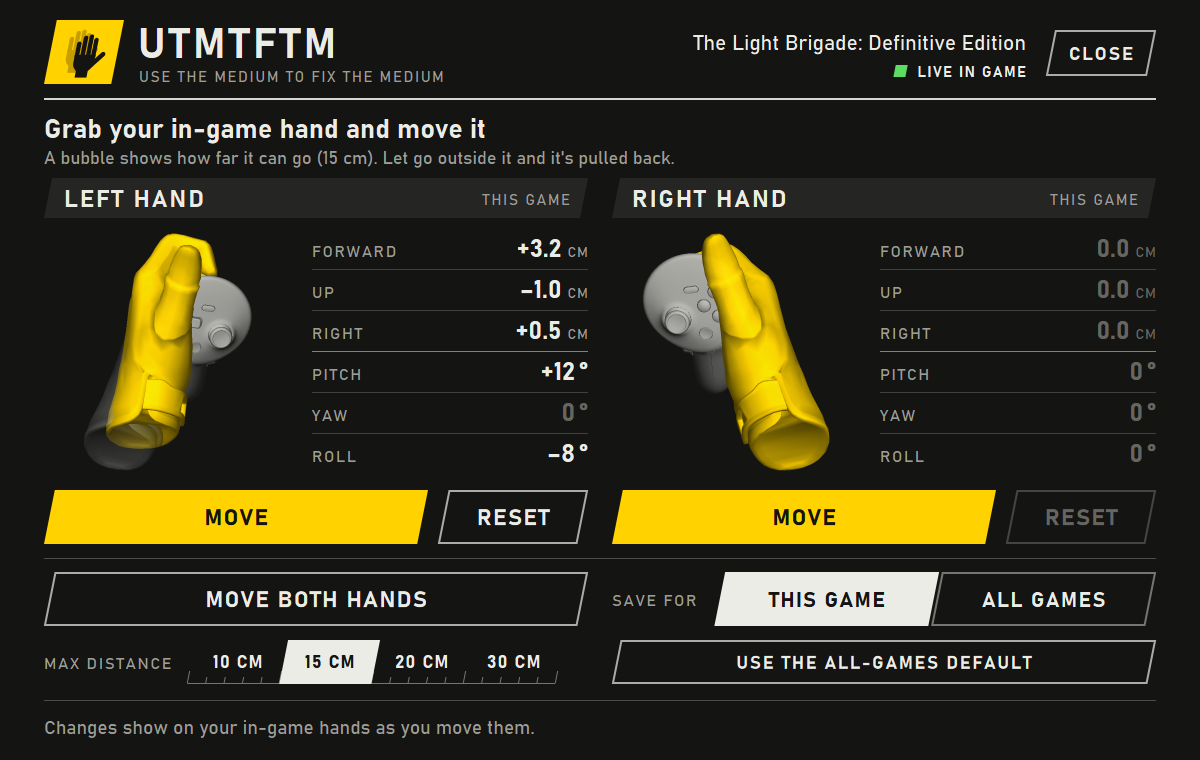
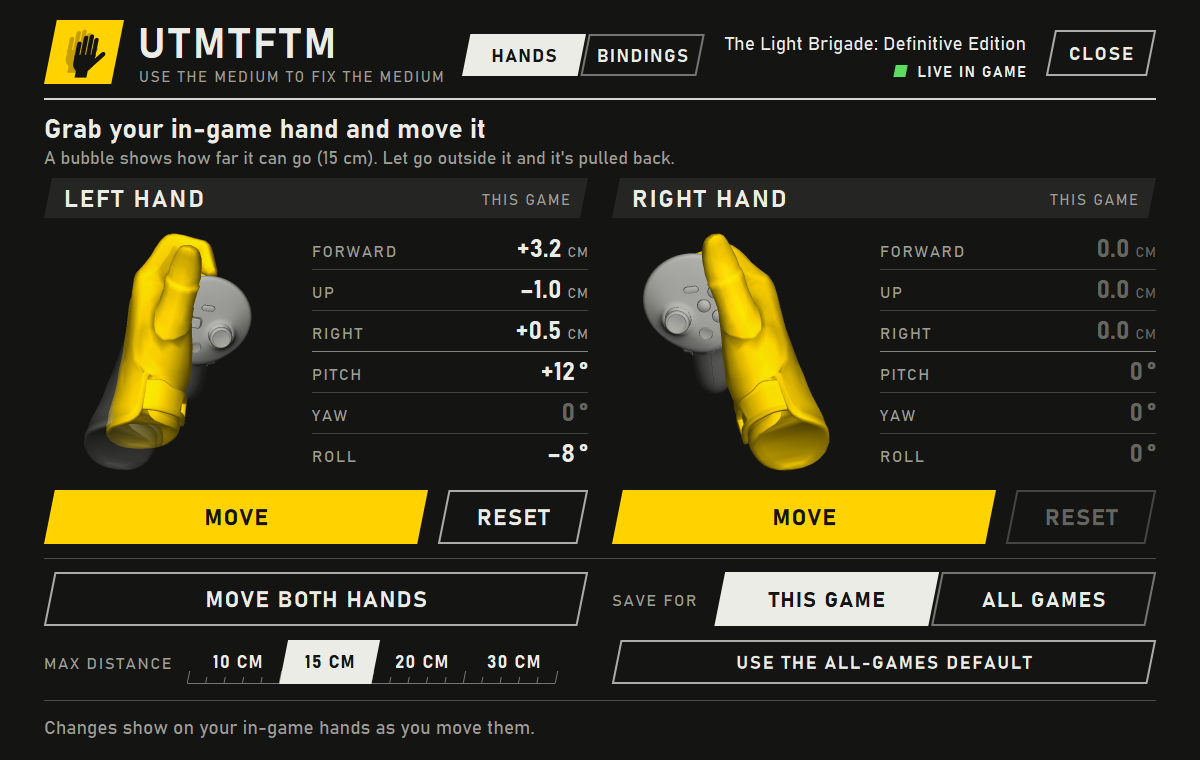
Version 0.3.0: the Bindings tab and the Frame's hand
Docs and pictures for the Bindings tab, the changelog and release notes, and how-it-works now covers the hand skin. Also takes the hand-skin branch back out of the build triggers.

Changed region(s): [[0.37, 0.0303, 0.8633, 0.1211]]

diff --git a/docs/how-it-works.md b/docs/how-it-works.md
@@ -52,7 +52,7 @@ The Frame runs SteamVR natively on ARM64 Linux, from `/opt/steamvr`, so this is 
 - The text is Barlow, which ships with the program, because Linux has no Bahnschrift and a headset's fonts aren't something to count on.
 - It uses the OpenVR loader SteamVR keeps at `/opt/steamvr/bin/linuxarm64`. The prebuilt ARM64 one in Valve's SDK looks for its settings in `/data/work`, an Android path, so it can't find SteamVR on a Frame.
 - cairo, FreeType and Vulkan come from SteamOS, and everything else is built into the program. It only needs glibc 2.34, so it isn't tied to one SteamOS version.
-- The Frame's SteamVR has the hand's skeleton and animations but no glove model, and that model isn't ours to ship, so the page draws a plain hand of its own.
+- The Frame's SteamVR has the hand's skeleton and animations but no glove model, and that model isn't ours to ship. So `src/handskin.h` wraps a smooth skin around SteamVR's bones, and the hand on the page ends up with the same shape as on Windows.
 - It's also listed in the dashboard's **+** menu, which shows whatever is in `~/.local/share/applications`. If it's already running, that just opens its page.
 
 ARM also doesn't keep memory writes in order the way x86 does. The offsets in the shared file are guarded by a sequence number, and without an extra fence a reader on another core could take a half-written offset for a finished one. x86 hides that mistake, so it never showed up on Windows. `test_driver` writes and reads flat out on separate threads, and that test runs on ARM64 as well.
@@ -68,9 +68,11 @@ It's all read from files SteamVR already keeps, and most of the work is in `src/
 - A game's bindings come from wherever SteamVR got them, in this order: the binding it's set to use for that game, what an OpenXR game asked for last time it ran (`config/openxr/<app>_<controller>_<n>_binding.json`, rewritten at each launch), bindings SteamVR ships for that game, and the game's own action file, which Steam lists in `steamapps.vrmanifest`.
 - A game's names for its actions are in its action file. OpenXR games have no such file on disk, and Unity's and Unreal's plugins name their actions after the input anyway, like `oculustouch_right_a_click`, so all the page can say is that the button's in use.
 
-The translation starts from SteamVR's own, `*_remapping.json`, read backwards to say which of their buttons each of yours acts as. Anything you rewire goes on top of that. Applying it copies the game's binding for the other controller, moves each input to your button and changes how it reads where it has to: a Touch trigger on a Frame bumper can't half-press, so it becomes a full pull. SteamVR leaves its last automatic translation in `auto-remapping_toBinding.json`, and `test_bindings` checks ours comes out the same.
+What a line ends on comes from the model too. The picture is drawn once from in front and to the outside, so the trigger and grip show as well as the top, and each part's line goes to the middle of whatever can be seen of it. A hollow mark means the part is round the back from that angle.
 
-The result is a binding file in `bindings/` in the data folder, with its `controller_type` set to yours and its `interaction_profile` left as theirs, so an OpenXR game goes on thinking it's talking to the other controller. Games written for SteamVR Input get `simulated_controller_type` instead. It goes live through `<controller>_250820_CurrentURL_<category>` in that game's section of SteamVR's settings, the same way the offset fallback does, and SteamVR reads that when the game starts. Going back restores whatever was there.
+The translation starts from SteamVR's own, `*_remapping.json`, read backwards to say which of their buttons each of yours acts as. That's also what "its match" means when you point at a button: the one SteamVR treats as its equivalent, which isn't always the one with the same action in a game that binds the two controllers differently. Anything you rewire goes on top of that. Applying it copies the game's binding for the other controller, moves each input to your button and changes how it reads where it has to: a Touch trigger on a Frame bumper can't half-press, so it becomes a full pull. SteamVR leaves its last automatic translation in `auto-remapping_toBinding.json`, and `test_bindings` checks ours comes out the same.
+
+The result is a binding file in `bindings/` in the data folder, with its `controller_type` set to yours and its `interaction_profile` left as theirs, so an OpenXR game goes on thinking it's talking to the other controller. Games written for SteamVR Input get `simulated_controller_type` instead, the same as SteamVR's own translation writes. It goes live through `<controller>_250820_CurrentURL_<category>` in that game's section of SteamVR's settings, the same way the offset fallback does, and SteamVR reads that when the game starts. Going back restores whatever was there.
 
 None of it runs unless the page is open, except a string compare once a second, and on a game's start it applies a saved layout if there's one to apply. `test_bindings` prints what it costs. On my PC that's about 15 ms to read the controller files, 40 ms to find a game's bindings and 65 ms to draw the four controllers the first time, then about 30 ms to redraw the page when the laser moves.
 

diff --git a/README.md b/README.md
@@ -58,25 +58,39 @@ It works with anything that runs through SteamVR, on OpenVR or OpenXR. The add-o
 
 ## Bindings
 
-The **Bindings** tab at the top of the page shows your controllers underneath any other one you pick. Each button has a line to where it really is on the controller, and says what it does in the game you're in. Point at a button and its match lights up on the other controller.
+I never got on with Steam's binding screen, so there's a simpler one here. The **Bindings** tab at the top of the page shows your controllers at the bottom and any other controller you pick at the top, both at once. Every button has a line to its spot on the controller. Point the laser at one and its line lights up, along with its match on the other controller.
 
-So if you're on a Frame playing No Man's Sky and you want to know what the Quest's B does, pick Quest 3 and read it off. It's Jump, and on your Frame it's on A.
+![Steam Frame controllers on the Quest layout in Pavlov, with the laser on X](docs/bindings.png)
+
+Pick what to compare with from the row of names. With a game running, each button says what it does in that game, as far as the game tells SteamVR. No Man's Sky names everything, so if you pick Quest 3 there, the page shows that the Quest's B is Jump, and that Jump is A on your Frame. Games with a lot of controls split them into sets like On Foot and Flight, and the arrows at the top right move between them.
+
+![Steam Frame controllers under Quest 3 in No Man's Sky, with every button named](docs/bindings-names.png)
+
+### Using another controller's layout
 
 If you don't like what the developer picked for your controller:
 
-1. Pick the controller whose layout you'd rather have. **This game uses** then offers it, like **Quest layout**.
-2. Tap it. It's saved, and the game uses it the next time it launches. **Developer's** puts it back.
+1. Pick the controller whose layout you'd rather have.
+2. Next to **This game uses**, tap its layout, like **Quest layout**. **Developer's** puts it back.
+3. Restart the game. A new layout doesn't apply until then.
 
-To change one button, tap it on your own controller, then tap what it should do on the other one. Compare your controller with itself to just swap things around.
+SteamVR already translates between controllers when a game has nothing for yours, and this starts from the same translation. Here you can see it and choose it, even for games that have their own bindings for your controller.
 
-**Save for** works like it does for offsets. With **All games**, any game that has a binding for that controller gets the layout, starting from its second launch, because a game only tells SteamVR about its bindings once it's been run.
+### Changing one button
 
-A few things to know:
+Tap the button on your own controller, and a yellow bar asks what it should do. Tap that on the controller above, or **Nothing** to switch it off. If you just want to swap your own buttons around, pick your own controller to compare with. **Undo rewiring** takes it all back.
 
-- Lots of games don't say what their buttons do. Unity and Unreal games usually just pass the button along, so the page can only show that a button is in use. The ones that name their actions, like No Man's Sky, show the names.
+**Save for** picks between this game and every game. With **All games**, any game that has bindings for the other controller picks up the layout once you've played it and started it again.
+
+### What to expect
+
+- Lots of games don't say what their buttons do. Unity and Unreal games usually give SteamVR only the button's own name, so for those, like Pavlov, the page can only show which buttons are in use and how they match up.
 - It only knows a game's bindings once you've played it on that machine, unless the game ships them with its files.
-- A new layout doesn't apply until the game restarts. SteamVR's own binding page can switch mid-game, but it does that through a web API this add-on stays away from.
-- A layout is a normal SteamVR binding, so it stays in place if you switch the add-on off in Manage Add-ons. Removing the add-on puts everything back.
+- Layouts don't switch mid-game. SteamVR's own binding screen can do that, but it uses a locked internal API that I've left alone.
+- A layout is an ordinary SteamVR binding, so it stays in place if you switch the add-on off in Manage Add-ons. Removing the add-on puts everything back.
+- I've used the page on my Frame, and what it writes matches SteamVR's own translation, but I haven't played a game on a translated layout yet. If one misbehaves, tap **Developer's**, restart the game and please tell me.
+
+There's more on how it finds all this in [docs/how-it-works.md](docs/how-it-works.md#the-bindings-page).
 
 ## Controllers
 

diff --git a/packaging/release-notes.md b/packaging/release-notes.md
@@ -1,4 +1,8 @@
-Runs on the Steam Frame itself now, for games running on the headset. I've played Pavlov and Forefront with it on my Frame.
+There's a **Bindings** tab now. It shows your controllers under any other controller you pick, with a line from each button to its spot. If the game says what its buttons do, you see that too. You can put a game on another controller's layout or change single buttons. I wrote it because I find Steam's binding screen hard to use, and there are pictures and the details in the [README](https://github.com/RxVreality/UTMTFTM#bindings).
+
+I've used the page on my Frame, but I haven't played a game on a translated layout yet, so if one misbehaves, tap **Developer's** on that tab to put the game back, restart it and please open an issue.
+
+On a Frame, the hand on the page now looks like the Windows one. It used to come out mangled.
 
 **On a Frame:** turn on Developer Mode in Steam's System settings, open Konsole from the **+** on the bottom bar, and paste this:
 

diff --git a/CHANGELOG.md b/CHANGELOG.md
@@ -1,10 +1,17 @@
 # Changelog
 
-## Next
+## 0.3.0
 
 A Bindings tab: your controllers under any other one you pick, with where each button is and what it does in the game you're in. You can put a game on another controller's layout, rewire single buttons, and set either as the default for all games. It reads and writes SteamVR's own binding files, and changes apply the next time the game launches.
 
-Fixed in the fallback for games the add-on can't reach: it was spelling SteamVR's setting wrong for SteamVR Input games, and on a Frame it wrote and read file paths with a slash too many or too few.
+Changes on the Steam Frame:
+
+- The hand on the page looks like the one on Windows now, with a smooth skin around SteamVR's own bones. It used to come out mangled.
+
+Fixed in the fallback for games the add-on can't reach:
+
+- It was spelling SteamVR's setting wrong for SteamVR Input games.
+- On a Frame it wrote and read file paths with a slash too many or too few.
 
 ## 0.2.0
 
